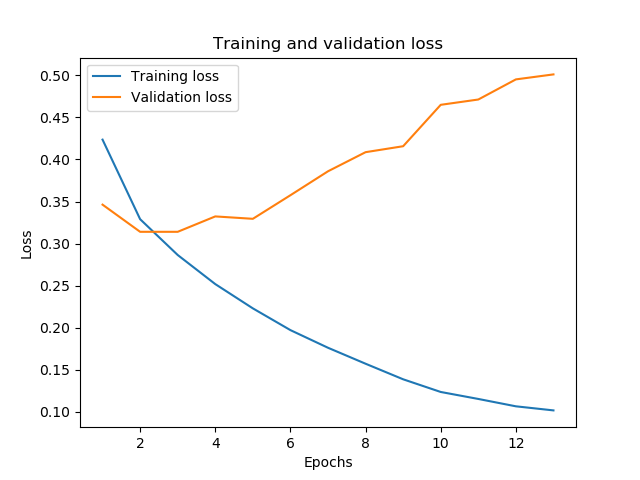
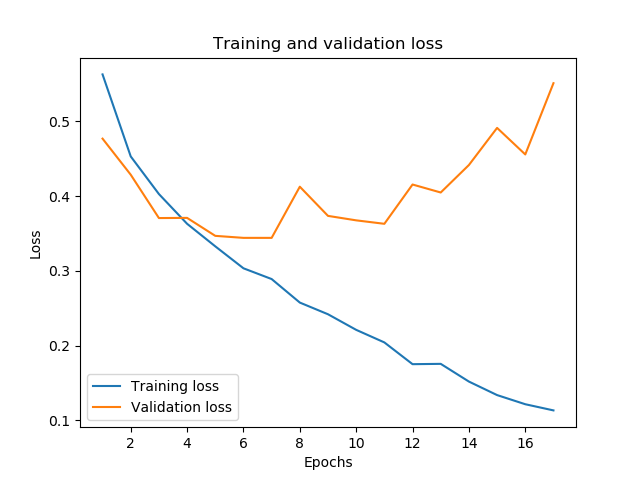
fixed shuffling error and included evaluate model standalone functions

diff --git a/Code/pkg/model_training/DLmodels.py b/Code/pkg/model_training/DLmodels.py
@@ -4,6 +4,7 @@ import matplotlib.pyplot as plt
 import pandas as pd
 import pickle
 from pathlib import Path
+from os.path import isfile
 from keras import optimizers
 from keras.engine import Layer
 from ..data_processing.augmentation import synonym_replacement
@@ -164,23 +165,31 @@ def get_length_limit(dataset_name: str) -> int:
         raise ValueError('Dataset name "' + dataset_name + '" does not exist')
 
 
-
-
 def augment_data(sarcasm_data: np.ndarray, labels: np.ndarray, flag=False) -> tuple:
     if flag:
         sarcasm_data = np.concatenate((sarcasm_data, sarcasm_data.copy()))
         labels = np.concatenate((labels, labels.copy()))
-
-
-
     return sarcasm_data, labels
 
 
 def get_batch_size(model_name: str) -> int:
-    return 32
-    # online learning for lstms sets batch size to 1
-    #batch_sizes = {'lstm': 32, 'bi-lstm': 32, 'cnn': 32, 'vanilla-rnn': 32, 'vanilla-gru': 32}
-    #return batch_sizes[model_name]
+    # set batch size to 1 for online learning in lstm
+    batch_sizes = {'lstm': 32, 'bi-lstm': 32, 'cnn': 32, 'vanilla-rnn': 32, 'vanilla-gru': 32}
+    return batch_sizes[model_name]
+
+
+def get_custom_layers(model_name=None, vector_type=None):
+    custom_layers = {}
+
+    if model_name and 'attention' in model_name:
+        custom_layers['AttentionLayer'] = AttentionLayer
+
+    if vector_type:
+        if vector_type == 'elmo':
+            custom_layers['ElmoEmbeddingLayer'] = ElmoEmbeddingLayer
+        elif vector_type == 'glove':
+            custom_layers['GloveEmbeddingLayer'] = GloveEmbeddingLayer
+    return custom_layers
 
 
 def load_model_from_file(filename: str, custom_layers: dict):
@@ -249,22 +258,6 @@ def vanilla_gru(model, shape, optimiser):
                   metrics=['accuracy'])
     return model
 
-
-# def cnn(model):
-#     model.add(Dropout(0.2))
-#     model.add(Conv1D(filters=32, kernel_size=4, padding='valid', activation='relu', strides=1))
-#     #model.add(LeakyReLU(alpha=0.1))
-#     model.add(GlobalMaxPooling1D())
-#     # vanilla hidden layer:
-#     model.add(Dense(250))
-#     model.add(Dropout(0.2))
-#     model.add(LeakyReLU(alpha=0.1))
-#     model.add(Dense(1, activation='sigmoid'))
-#     model.compile(loss='binary_crossentropy',
-#                   optimizer='adam',
-#                   metrics=['accuracy'])
-#     return model
-
 def lstm_with_attention(model, optimiser):
     model.add(LSTM(60, return_sequences=True))
     model.add(AttentionLayer())
@@ -326,7 +319,7 @@ def prepare_vector_embedding_layer(s_data: pd.Series, s_labels: pd.Series, datas
         text = pd.DataFrame([pad_string(t.split(), limit) for t in sarcasm_data])
         text = text.replace({None: ""})
         text = text.to_numpy()
-        return text, sarcasm_labels, ElmoEmbeddingLayer(batch_input_shape=(max_batch_size, limit), input_dtype="string"), {'ElmoEmbeddingLayer': ElmoEmbeddingLayer}
+        return text, sarcasm_labels, ElmoEmbeddingLayer(batch_input_shape=(max_batch_size, limit), input_dtype="string")
 
     elif vector_type == 'glove':
         tokenizer = Tokenizer()
@@ -340,7 +333,7 @@ def prepare_vector_embedding_layer(s_data: pd.Series, s_labels: pd.Series, datas
 
         sequences = tokenizer.texts_to_sequences(s_data)
         padded_data = pad_sequences(sequences, maxlen=limit, padding='post')
-        return padded_data, s_labels, GloveEmbeddingLayer(tokenizer.word_index, limit), {'GloveEmbeddingLayer': GloveEmbeddingLayer}
+        return padded_data, s_labels, GloveEmbeddingLayer(tokenizer.word_index, limit)
     else:
         raise TypeError('Vector type must be "elmo" or "glove"')
 
@@ -382,11 +375,10 @@ def get_model(model_name: str, dataset_name: str, sarcasm_data: pd.Series, sarca
     # if i remove the overall sentiment from the 6-dimensional vector, we could mimic the behaviour
     # e.g. [0 0 0 0 1] for each word, when averaging embeddings will be very similar
 
-    s_data, l_data, e_layer, c_layer = prepare_vector_embedding_layer(sarcasm_data, sarcasm_labels, dataset_name, vector_type,
+    s_data, l_data, e_layer = prepare_vector_embedding_layer(sarcasm_data, sarcasm_labels, dataset_name, vector_type,
                                                                       split, max_batch_size, length_limit)
 
-    new_adam = optimizers.Adam(lr=0.0001, decay=0.001)
-
+    new_adam = optimizers.Adam() # lr=0.0001, decay=0.001
     model = Sequential()
     e_layer.trainable = False
     model.add(e_layer)
@@ -394,7 +386,6 @@ def get_model(model_name: str, dataset_name: str, sarcasm_data: pd.Series, sarca
         model = lstm_network(model, new_adam)
     elif model_name == 'attention-lstm':
         model = lstm_with_attention(model, new_adam)
-        c_layer['AttentionLayer'] = AttentionLayer
     elif model_name == 'bi-lstm':
         model = bidirectional_lstm_network(model, new_adam)
     elif model_name == 'cnn':
@@ -403,7 +394,7 @@ def get_model(model_name: str, dataset_name: str, sarcasm_data: pd.Series, sarca
         model = vanilla_rnn(model, (max_batch_size, length_limit), new_adam)
     elif model_name == 'vanilla-gru':
         model = vanilla_gru(model, (len(s_data), length_limit), new_adam)
-    return s_data, l_data, model, c_layer
+    return s_data, l_data, model
 
 
 def evaluate_model(model_name, trained_model, testing_data, testing_labels):
@@ -429,21 +420,34 @@ def get_dl_results(model_name: str, dataset_number: int, vector_type: str, set_s
     patience = 10
     max_batch_size = get_batch_size(model_name)
 
-    s_data, l_data, dl_model, custom_layer = get_model(model_name, dataset_name, clean_data, sarcasm_labels, vector_type, split)
-    training_data, testing_data, training_labels, testing_labels = train_test_split(s_data, l_data, test_size=split)
-    print(training_data.shape)
+    s_data, l_data, dl_model = get_model(model_name, dataset_name, clean_data, sarcasm_labels, vector_type, split)
+    custom_layer = get_custom_layers(model_name, vector_type)
+    training_data, testing_data, training_labels, testing_labels = train_test_split(s_data, l_data, test_size=split, shuffle=False)
 
-    # training_data, training_labels = repeat_positive_samples(training_data, training_labels, 0.5)
-
+    # ------------------------------- AUGMENT DATA IF FLAG IS SET -------------------------------
     training_data, training_labels = augment_data(training_data, training_labels, flag=False)
     testing_data, testing_labels = augment_data(testing_data, testing_labels, flag=False)
+    stem = model_name + '_with_' + vector_type + '_on_' + str(dataset_number) + '.h5'
+    file_name = str(base_path / ('../trained_models/' + stem))
 
-    file_name = str(base_path / ('../trained_models/' + model_name + '_with_' + vector_type + '_on_' + str(dataset_number) + '.h5'))
+    if isfile(file_name):
+        print('Model with filename "' + stem + '" already exists - collecting results')
+        dl_model = load_model_from_file(file_name, custom_layer)
+        evaluate_model(model_name, dl_model, testing_data, testing_labels)
+        return
 
+    while True:
+        response = input('Model with filename "' + stem + '" not found: would you like to train one? y / n\n').lower().strip()
+        if response in {'y', 'n'}:
+            if response == 'y':
+                break
+            else:
+                print('\nCancelling training...')
+                return
+
+    # training_data, training_labels = repeat_positive_samples(training_data, training_labels, 0.5)
     model_checkpoint = ModelCheckpoint(file_name, monitor='val_loss', mode='auto', save_best_only=True)
     early_stopping = EarlyStopping(monitor='val_loss', patience=patience, verbose=1, mode='auto')
-
-    # sess.run(tf.compat.v1.global_variables_initializer())
     model_history = dl_model.fit(x=np.array(training_data), y=np.array(training_labels), validation_data=(testing_data, testing_labels),
                                 epochs=epochs, batch_size=max_batch_size, callbacks=[early_stopping, model_checkpoint])
 

diff --git a/Code/pkg/model_training/MLmodels.py b/Code/pkg/model_training/MLmodels.py
@@ -6,12 +6,16 @@ from sklearn.ensemble import RandomForestClassifier
 from sklearn.naive_bayes import GaussianNB
 from sklearn.neighbors import KNeighborsClassifier
 from ..data_processing.helper import prepare_data
+from sklearn.model_selection import train_test_split
 import pandas as pd
+from os.path import isfile
 import numpy as np
 import pickle
 import time
 from pathlib import Path
 
+# ------------------------------------ Model dictionaries --------------------------------------
+# List of supported models
 models = {"svm": SVC(gamma='auto', C=10, kernel='linear'),
           "log_reg": LogisticRegression(C=10, max_iter=300),
           "rfc": RandomForestClassifier(n_estimators=100, max_depth=None, max_features='sqrt'),
@@ -19,7 +23,7 @@ models = {"svm": SVC(gamma='auto', C=10, kernel='linear'),
           "knn": KNeighborsClassifier(n_neighbors=5)
           }
 
-
+# Full names of supported models for printing to the console
 full_names = {"svm": "Support Vector Machine",
               "log_reg": "Logistic Regression",
               "rfc": "Random Forest Classifier",
@@ -28,55 +32,68 @@ full_names = {"svm": "Support Vector Machine",
               }
 
 
-def get_model(model_name) -> tuple:
+# -------------------------------------- Main Functions ---------------------------------------
+def get_model(model_name: str) -> tuple:
+    """
+    Given an abbreviated model name as a string, return the model's full name and the corresponding unfit classifier
+    :param model_name: a string containing an abbreviated model name - this is the model to be fetched n.b. for a full
+    list of valid names, view the keys of the full_names dictionary
+    """
     try:
         return full_names[model_name], models[model_name]
     except KeyError:
         print('Invalid model name')
 
 
-
-# def get_model(model_name) -> tuple:
-#     if model_name == 'svm':
-#         return full_names[model_name], SVC(gamma='auto', C=10, kernel='linear')
-#     elif model_name == 'log_reg':
-#         return full_names[model_name], LogisticRegression(C=10, max_iter=300)
-#     elif model_name == 'rfc':
-#         return full_names[model_name], RandomForestClassifier(n_estimators=100, max_depth=None, max_features='sqrt')
-#     elif model_name == 'n_bayes':
-#         return full_names[model_name], GaussianNB()
-#     elif model_name == 'knn':
-#         return full_names[model_name], KNeighborsClassifier()
-#     else:
-#         raise KeyError('Not a valid model name')
-
-
-def calculate_f1_score(trained_model, testing_data, testing_labels):
-    predictions = trained_model.predict(testing_data)
-    return f1_score(testing_labels, predictions)
-
-
-def train_and_evaluate(classifier, data, labels):
-    scores = cross_val_score(classifier, data.apply(pd.Series), labels, cv=5, scoring='f1_macro')
-    return np.mean(scores)
+def evaluate_model(trained_model, testing_data: pd.Series, testing_labels: pd.Series) -> None:
+    """
+    Given a trained model, and some testing data and labels, calculate the F1 score of the model
+    :param trained_model: a sci-kit learn classifier, trained on corpus of vectors
+    :param testing_data: data
+    :param testing_labels: a string containing an abbreviated model name - this is the model to be fetched n.b. for a full
+    """
+    y_pred = trained_model.predict_classes(x=np.array(testing_data))
+    score = f1_score(np.array(testing_labels), np.array(y_pred))
+    print('F1 Score: ', score)
 
 
 def get_ml_results(model_name: str, vector_type: str, feature_list: list, dataset_number: int):
+
+    split = 0.1
+
     base_path = Path(__file__).parent
+    stem = '../trained_models/' + model_name + '_with_' + '_'.join([vector_type] + feature_list) + '_on_' + str(dataset_number) + '.pckl'
+    file_name = str(base_path / stem)
     start = time.time()
     _, sarcasm_labels, sarcasm_data, _, _ = prepare_data(dataset_number, vector_type, feature_list)
+    training_data, testing_data, training_labels, testing_labels = train_test_split(sarcasm_data, sarcasm_labels, test_size=split, shuffle=False)
+
+    if isfile(file_name):
+        print('Model with filename "' + stem + '" already exists - collecting results')
+        ml_model = pd.read_pickle(file_name)
+        evaluate_model(ml_model, testing_data, testing_labels)
+        return
+
+    while True:
+        response = input(
+            'Model with filename "' + stem + '" not found: would you like to train one? y / n\n').lower().strip()
+        if response in {'y', 'n'}:
+            if response == 'y':
+                break
+            else:
+                print('\nCancelling training...')
+                return
 
     print('\nTraining ML models')
     classifier_name, classifier = get_model(model_name)
     print('Classifier: ' + classifier_name)
 
-    scores = cross_val_score(classifier, sarcasm_data, sarcasm_labels, cv=2, scoring='f1_macro')
+    # ------------------------- Evaluate new model with five-fold cross validation -----------------------
+    scores = cross_val_score(classifier, sarcasm_data, sarcasm_labels, cv=5, scoring='f1_macro')
     five_fold_cross_validation = np.mean(scores)
     print('Score: ', five_fold_cross_validation)
     print('Time taken: ' + str(round((time.time() - start)/60, 2)) + ' minutes')
+    classifier.fit(training_data, training_labels)
 
-    classifier.fit(sarcasm_data, sarcasm_labels)
-
-    with open(str(base_path / ('../trained_models/' + model_name + '_with_' + '_'.join([vector_type] + feature_list) +
-                               '_on_' + str(dataset_number) + '.pckl')), 'wb') as f:
+    with open(file_name, 'wb') as f:
         pickle.dump(classifier, f)

diff --git a/Code/train.py b/Code/train.py
@@ -17,7 +17,7 @@ def run_dl(models, vectors, datasets):
     for dataset in datasets:  # 0 - AMAZON, 1 - NEWS, 2 - TWEETS
         for model in models:
             for vector in vectors:
-                get_dl_results(model, dataset, vector)
+                get_dl_results(model, dataset, vector, set_size=10000)
 
 
 def run_ml(models, vectors, datasets, features):
@@ -36,7 +36,7 @@ def run_ml(models, vectors, datasets, features):
 
 if __name__ == '__main__':
     # --------------------------
-    dataset_list = [2]
+    #dataset_list = [2]
     # --------------------------
 
     # ml_model_list = ['svm', 'log_reg', 'rfc', 'n_bayes', 'k_means']
@@ -46,20 +46,20 @@ if __name__ == '__main__':
     # ml_feature_list = ['sentiment', 'punctuation', 'topic_model']
     # run_ml(ml_model_list, ml_vector_list, dataset_list, ml_feature_list)
 
-    ml_model_list = ['log_reg']
-    ml_vector_list = ['glove']
-
-    ml_feature_list = []
-    run_ml(ml_model_list, ml_vector_list, dataset_list, ml_feature_list)
+    # ml_model_list = ['log_reg']
+    # ml_vector_list = ['glove']
+    #
+    # ml_feature_list = []
+    # run_ml(ml_model_list, ml_vector_list, dataset_list, ml_feature_list)
     #
     # dl_model_list = ['cnn', 'lstm', 'bi-lstm', 'vanilla-rnn', 'vanilla-gru']
     # dl_vector_list = ['glove', 'elmo']
     # run_dl(dl_model_list, dl_vector_list, dataset_list)
 
 # ---------------------------------------
-#     dl_model_list = ['cnn']
-#     dl_vector_list = ['elmo']
-#     run_dl(dl_model_list, dl_vector_list, [1])
+    dl_model_list = ['lstm']
+    dl_vector_list = ['glove']
+    run_dl(dl_model_list, dl_vector_list, [1])
 
     # dl_model_list = ['cnn']
     # dl_vector_list = ['elmo']
